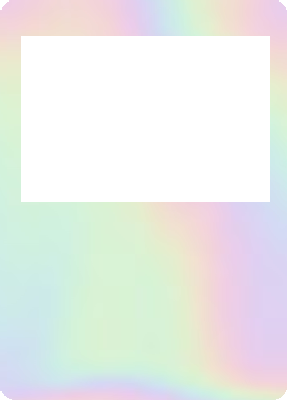
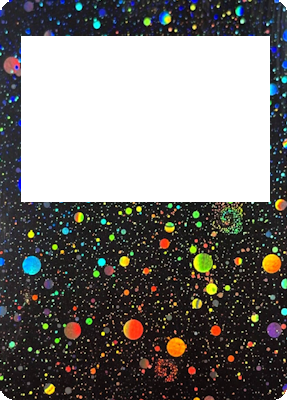
Improved the templates, and made it so i dont have to add the new templates to the code itsself.

diff --git a/backend/services/image_generation.py b/backend/services/image_generation.py
@@ -1,6 +1,8 @@
 from PIL import Image, ImageEnhance
 from io import BytesIO
 from pathlib import Path
+from os.path import isfile
+from os import listdir
 
 def retreive_extension(image_tuple: tuple[bytes, str]) -> str:
     match image_tuple[1].lower():
@@ -24,11 +26,17 @@ def image_processor(current_image: tuple[bytes, str], card_number: str, set_name
 
     SET_DIR: Path = Path(__file__).resolve().parent.parent / "data" / "generated" / set_name
     SET_DIR.mkdir(parents=True, exist_ok=True)
+    
+    image_directory = SET_DIR / f"{file_name}{extension}"
+    if isfile(image_directory):
+        return
+
+    template_path = Path(__file__).resolve().parent.parent / "data" / "templates"
 
     with Image.open(BytesIO(current_image[0])) as im:
-        image_directory = SET_DIR / f"{file_name}{extension}"
-
-        if variant in ["Holofoil", "Reverse Holofoil"]:
+        # Apparently i do save rarities, so I should check whether something is a full art,
+        # double rar, IR of SIR om er voor te zorgen dat de holofoil template niet wordt toegepast daar op.
+        if f"{variant}.png" in listdir(template_path):
             template = get_template(variant).convert("RGBA")
             im = Image.alpha_composite(im.convert("RGBA"), template)
 
@@ -40,7 +48,7 @@ def get_template(variant:str):
     template = Image.open(template_path).convert("RGBA")
 
     alpha_channel = template.getchannel("A")
-    opacity = 64 / 255
+    opacity = 100 / 255
     alpha_channel = ImageEnhance.Brightness(alpha_channel).enhance(opacity)
 
     template.putalpha(alpha_channel)
